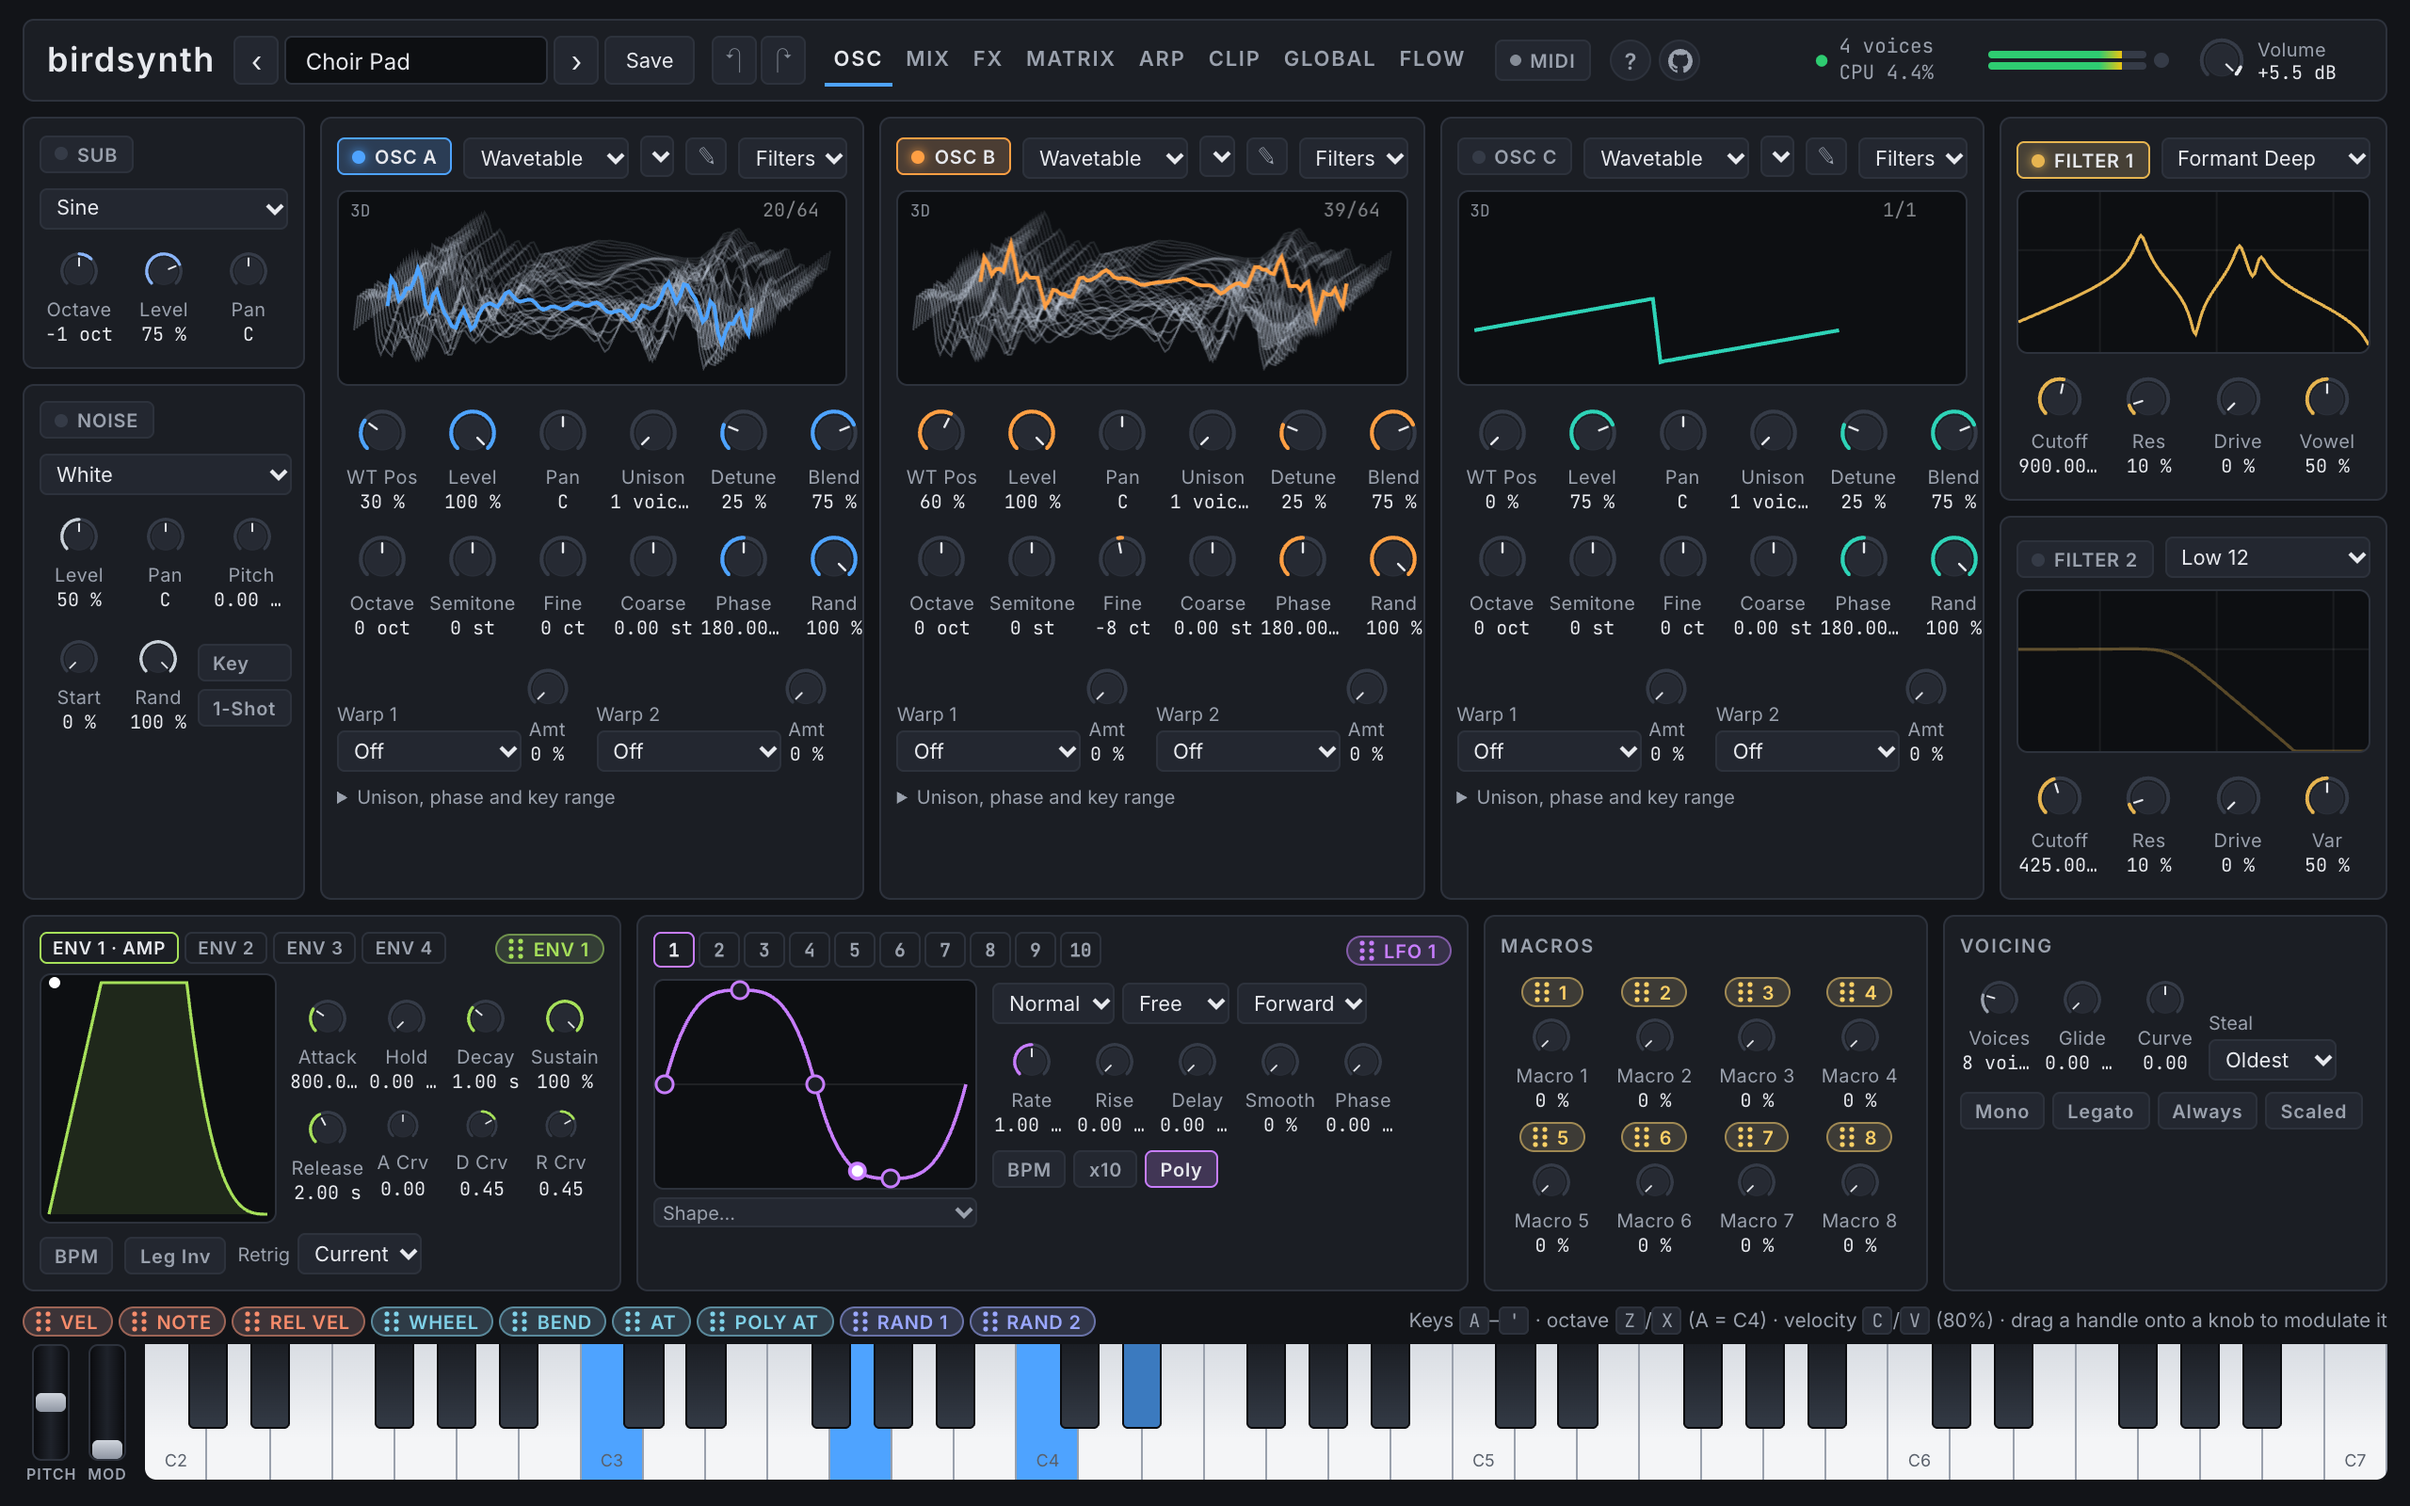
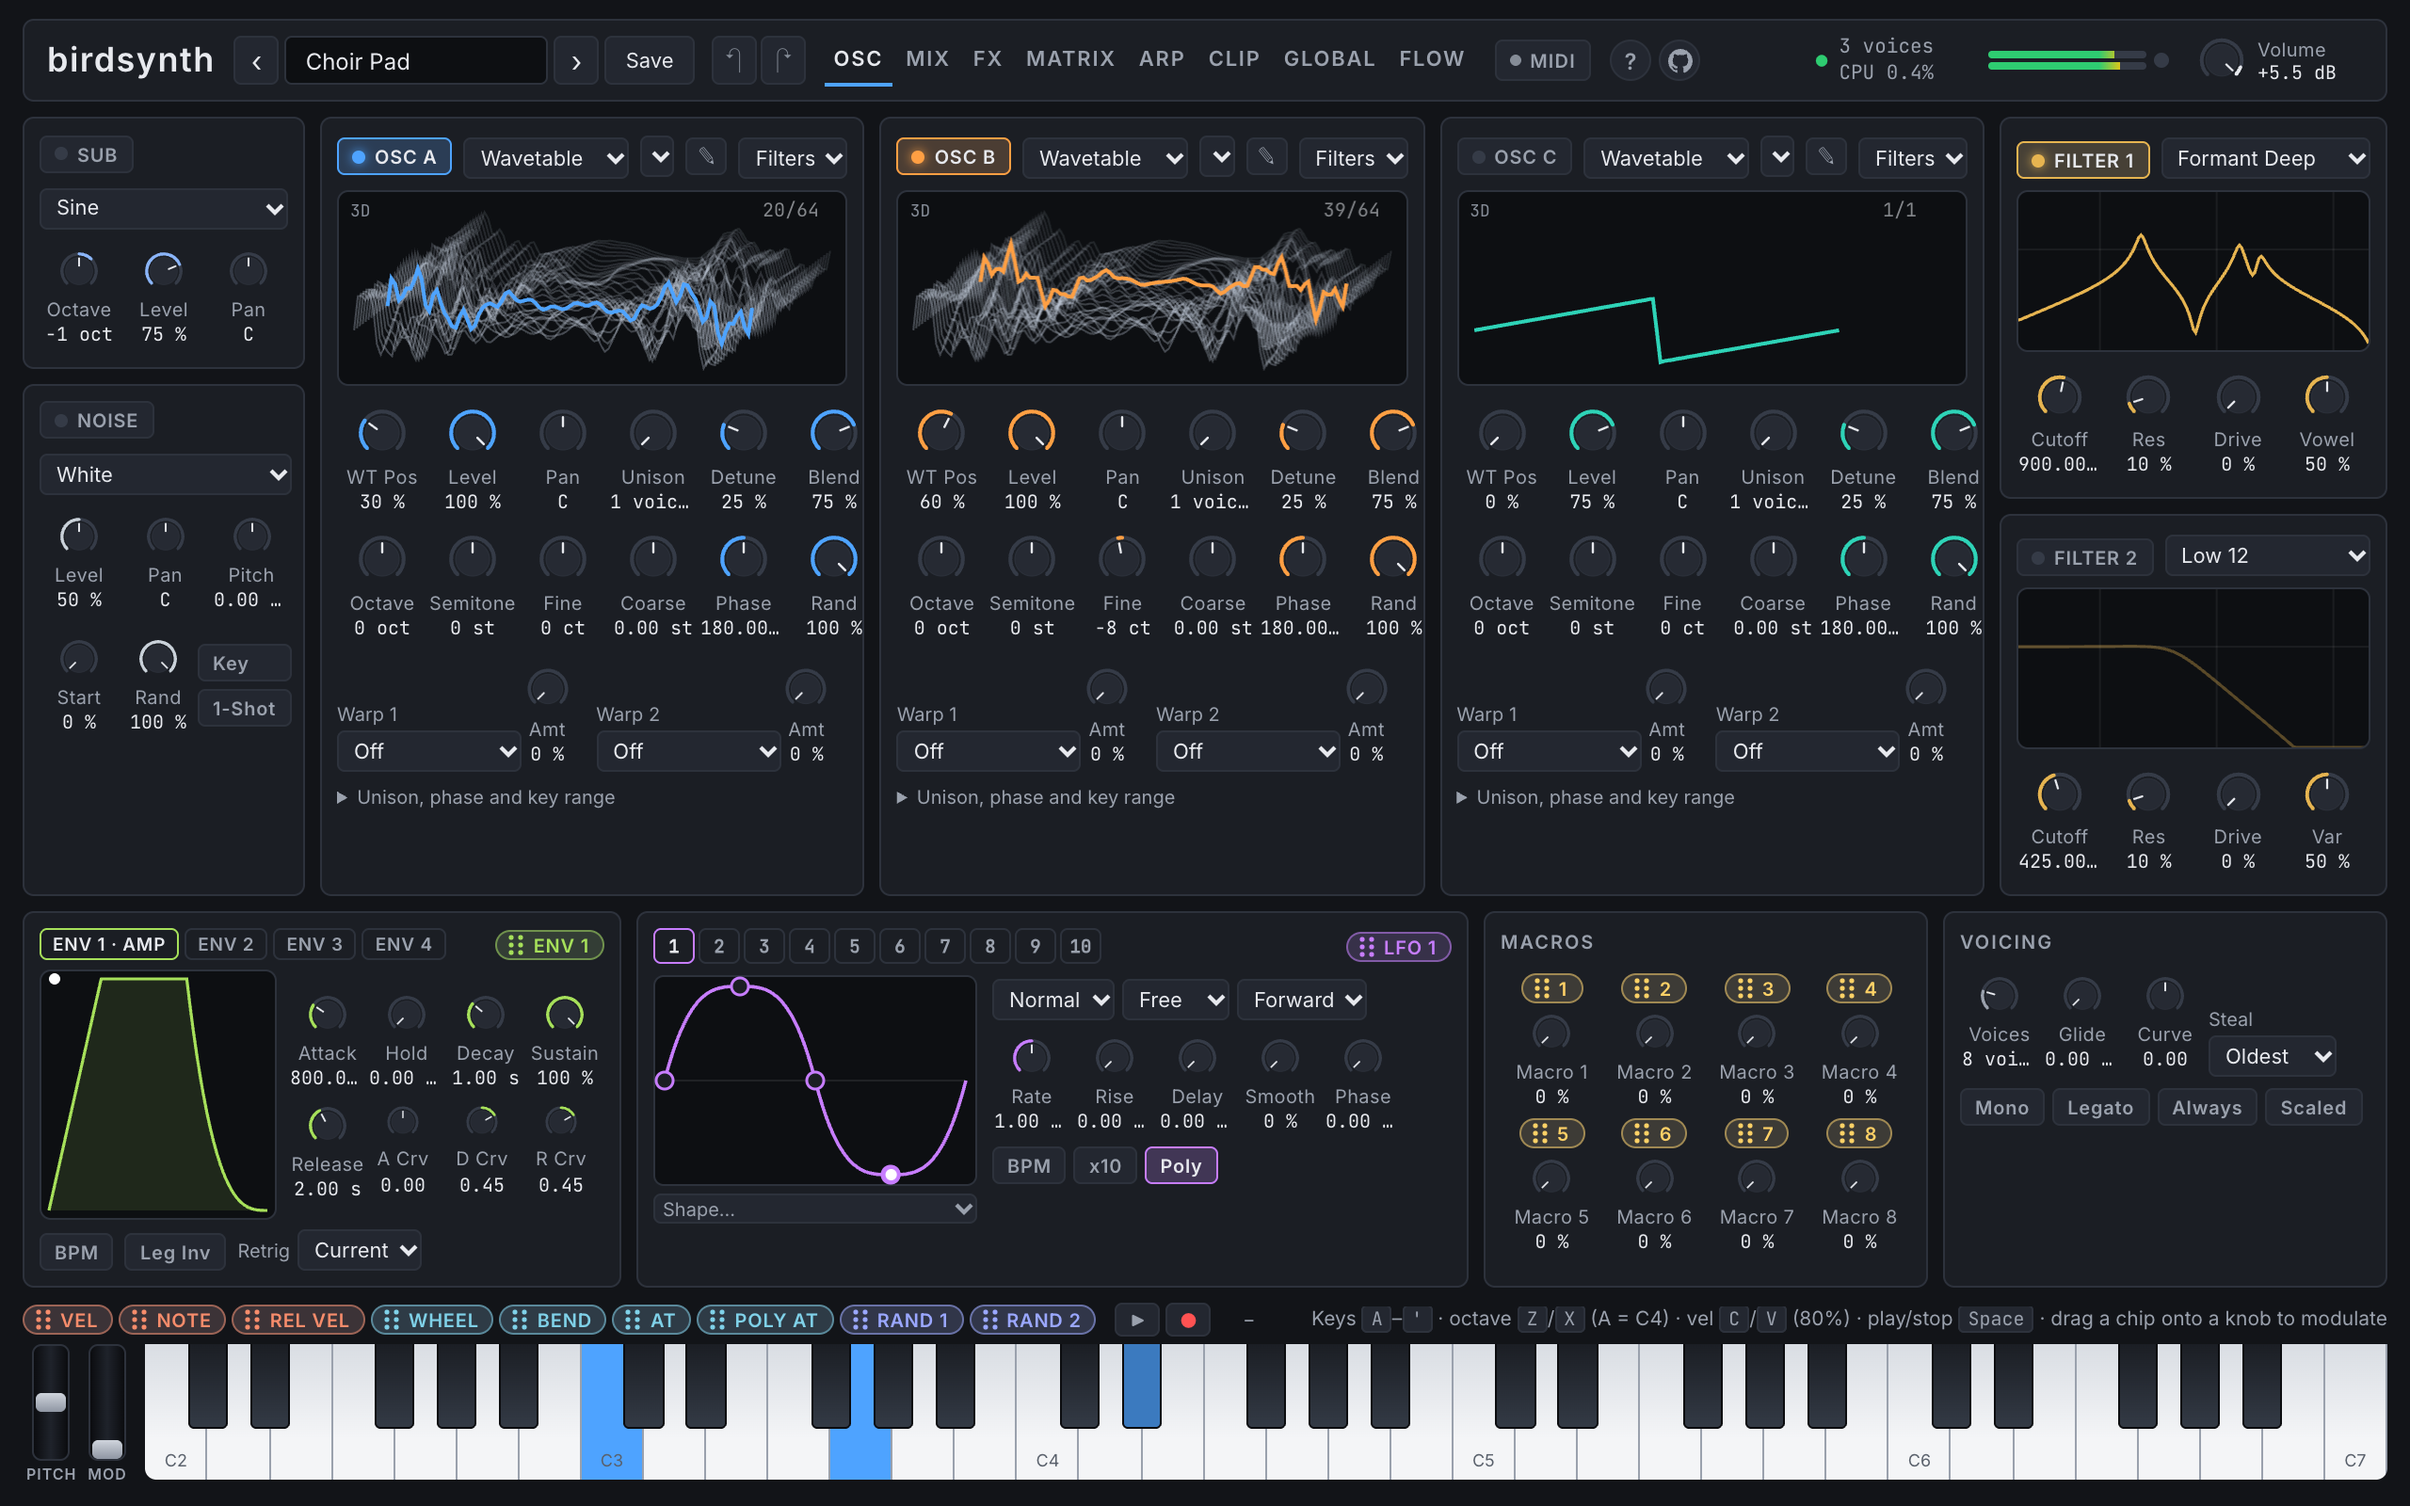
README: a screenshot for each feature, and a new one on top
tools/screenshots.mjs takes them all in headless Chrome over the DevTools
protocol (1280×800 at 2×; the small ones at 3×): each shot sets the synth up
(a preset, a page, held notes) and crops to the parts it names. The Link
shot links a second browser through the link service on a group code of its
own. The README also gains a Link bullet.

diff --git a/README.md b/README.md
@@ -9,7 +9,7 @@ no imports. It runs inside an AudioWorklet. The UI is Svelte 5 + TypeScript.
 
 **Play it:** https://birdsynth.abusing.technology
 
-![birdsynth's OSC page playing the Choir Pad preset: two oscillators on a vowel wavetable, shown in 3D, through a formant filter, with the envelopes, LFOs, macros and keyboard below](docs/screenshot.png)
+![birdsynth's OSC page playing the Choir Pad preset: two oscillators on a vowel wavetable, shown in 3D, through a formant filter, with the envelopes, LFOs, macros, transport and keyboard below](docs/screenshot.png)
 
 ## What's in it
 
@@ -21,14 +21,46 @@ no imports. It runs inside an AudioWorklet. The UI is Svelte 5 + TypeScript.
   - spectral: resynthesis with time and pitch independent
 
   Each has unison up to 16 and two warp slots: sync, bend, PWM, FM, PD, AM and RM from other sources, distortion and remap. There are also a sub oscillator and a noise oscillator.
-- **Filters:** two, in series or parallel, with 63 types on shared cores (SVF, ladders, diode, Sallen-Key, combs, phasers, formants, EQ shapes).
+
+  ![The OSC page's sources: the sub and noise oscillators, a wavetable oscillator in 3D, a granular oscillator on a recording of hits with its position and length pad, and a spectral oscillator showing its analysis](docs/screenshots/oscillators.png)
+
+- **Filters:** two, in series or parallel, with 63 types on shared cores (SVF, ladders, diode, Sallen-Key, combs, phasers, formants, EQ shapes). Each source goes into Filter 1 or Filter 2, with a Split that sends a share to the other.
+
+  ![The MIX page with the filters in parallel: osc A into Filter 1, osc B into Filter 2 with 30% split back to Filter 1, the noise direct, and the diagram drawing where each goes](docs/screenshots/filters.png)
+
 - **Modulation:** 4 envelopes, 10 LFOs (drawn, XY path, chaos, sample and hold), 8 macros, a 64-slot matrix with curves and aux sources, drag-to-modulate, Voice Control and MPE.
+
+  ![The modulation matrix with six routings from LFOs, an envelope, velocity, a macro and the mod wheel, each with its curve, amount, destination and live value](docs/screenshots/modulation.png)
+
 - **Effects:** three racks (Main, Bus 1, Bus 2) of hyper/dimension, distortion, flanger, phaser, chorus, delay, compressor (single and multiband), five reverbs, EQ, filter, frequency shifter, zero-latency convolution, utility and splitters.
-- **Sequencing:** an arpeggiator with step lanes, twelve clips with a piano roll, automation and recording, and MIDI file import and export. Also transport, swing and MIDI clock-in.
+
+  ![The FX page: the main rack of chorus, distortion, chorus, reverb and compressor, with the reverb open](docs/screenshots/effects.png)
+
+- **Sequencing:** an arpeggiator with step lanes, twelve clips with a piano roll, automation and recording, and MIDI file import and export. Also transport (the space bar plays and stops), swing and MIDI clock-in.
+
+  ![The CLIP page playing a 41-bar clip, with its notes in the piano roll and a lane automating the reverb](docs/screenshots/sequencing.png)
+
+- **Link:** several birdsynths in step: your other tabs and, with Network on, other computers on the same network (or anywhere, given the same group code). One transport, tempo and bar position for all of them; any of them can start or stop the rest. See [docs/sync.md](docs/sync.md).
+
+  <img src="docs/screenshots/link.png" width="320" alt="The LINK section: this computer linked over the network with another, directly, 0.6 ms away, which keeps time for the two">
+
 - **Wavetable editor:** draw tools, harmonics, a formula language, process and morph functions, and import from audio.
+
+  ![The wavetable editor on a 64-frame formant table: one frame's waveform, its harmonics' magnitudes and phases, the formula bar and the frames](docs/screenshots/editor.png)
+
 - **Presets:** a library in IndexedDB with tags, ratings and search, 31 factory presets, previews and Hybridize.
+
+  ![The preset browser: categories, tags and ratings to filter by, the list of presets, and the selected one's details, preview and Hybridize](docs/screenshots/presets.png)
+
 - **Other:** your sound is kept between visits (Reset is on the GLOBAL page), MIDI and MIDI learn, microtuning (.scl/.kbm/.tun), undo, and a CPU guard.
+
+  ![The GLOBAL page: quality and the CPU guard, tempo, tuning, keyboard, velocity, pitch bend, voices, MPE, MIDI, Link, session and master](docs/screenshots/global.png)
+
 - **Explainer:** explain mode (click anything), six guided tours, and a FLOW page that shows the whole signal path as live scopes.
+
+  <img src="docs/screenshots/explainer.png" width="570" alt="Explain mode on Filter 1: a note on what it does, a live scope of the focused voice after the filter, and a button to try closing it with resonance">
+
+  ![The FLOW page with every path in use: each box is a live scope, from the oscillators through the filters and amp to the buses, their FX racks and the master](docs/screenshots/flow.png)
 
 [docs/plan.md](docs/plan.md) has the design, each phase's numeric acceptance gates and the measurements that met them.
 
@@ -53,6 +85,7 @@ no imports. It runs inside an AudioWorklet. The UI is Svelte 5 + TypeScript.
 | `npm run gen` | Regenerates the codecs from `params/` and `schema/`. |
 | `npm run check` | svelte-check type checking. |
 | `deploy/deploy.sh` | Builds the site and runs it as a container on the host named in the script (port 8001). |
+| `node tools/screenshots.mjs` | Retakes this README's screenshots in headless Chrome (`--url http://localhost:4173` for a local build; name shots to retake only those). |
 
 ## Playing
 

diff --git a/CLAUDE.md b/CLAUDE.md
@@ -10,6 +10,7 @@ Link, several birdsynths in step over tabs and the network (`docs/sync.md`).
 - `npm test` runs everything: it builds the wasm, then `cargo test --workspace`, then vitest.
 - Dev server: `preview_start {name: "birdsynth"}` (from `.claude/launch.json`) on :5173. The Vite plugin rebuilds `engine.wasm` when `.rs`/`.toml` files change. The dev and preview servers also host the link service at `/sync`.
 - `npm run build` also bundles the link service (`server/` → `dist-server/relay.cjs`, esbuild); `npm run relay` runs it on its own (:8002).
+- README screenshots: `node tools/screenshots.mjs [--url http://localhost:4173] [shot …]` (headless Chrome over the DevTools protocol, 1280×800 at 2×; each shot's setup and crop selectors are in the file; the Link shot links a second browser through the link service on a random group code). Take them from a local build (`npm run build`, then the preview server) when the UI has changed since the last deploy.
 - Switching branches under a running dev server can leave Vite restarted on the old `vite.config.ts` (no `/sync`: `/sync/health` returns the page). Restart the server after a checkout.
 - After editing `params/` or `schema/`, run `npm run gen`. A test fails if the generated files are stale. Never hand-edit `crates/engine/src/spec/*` or `web/src/gen/*`.
 
